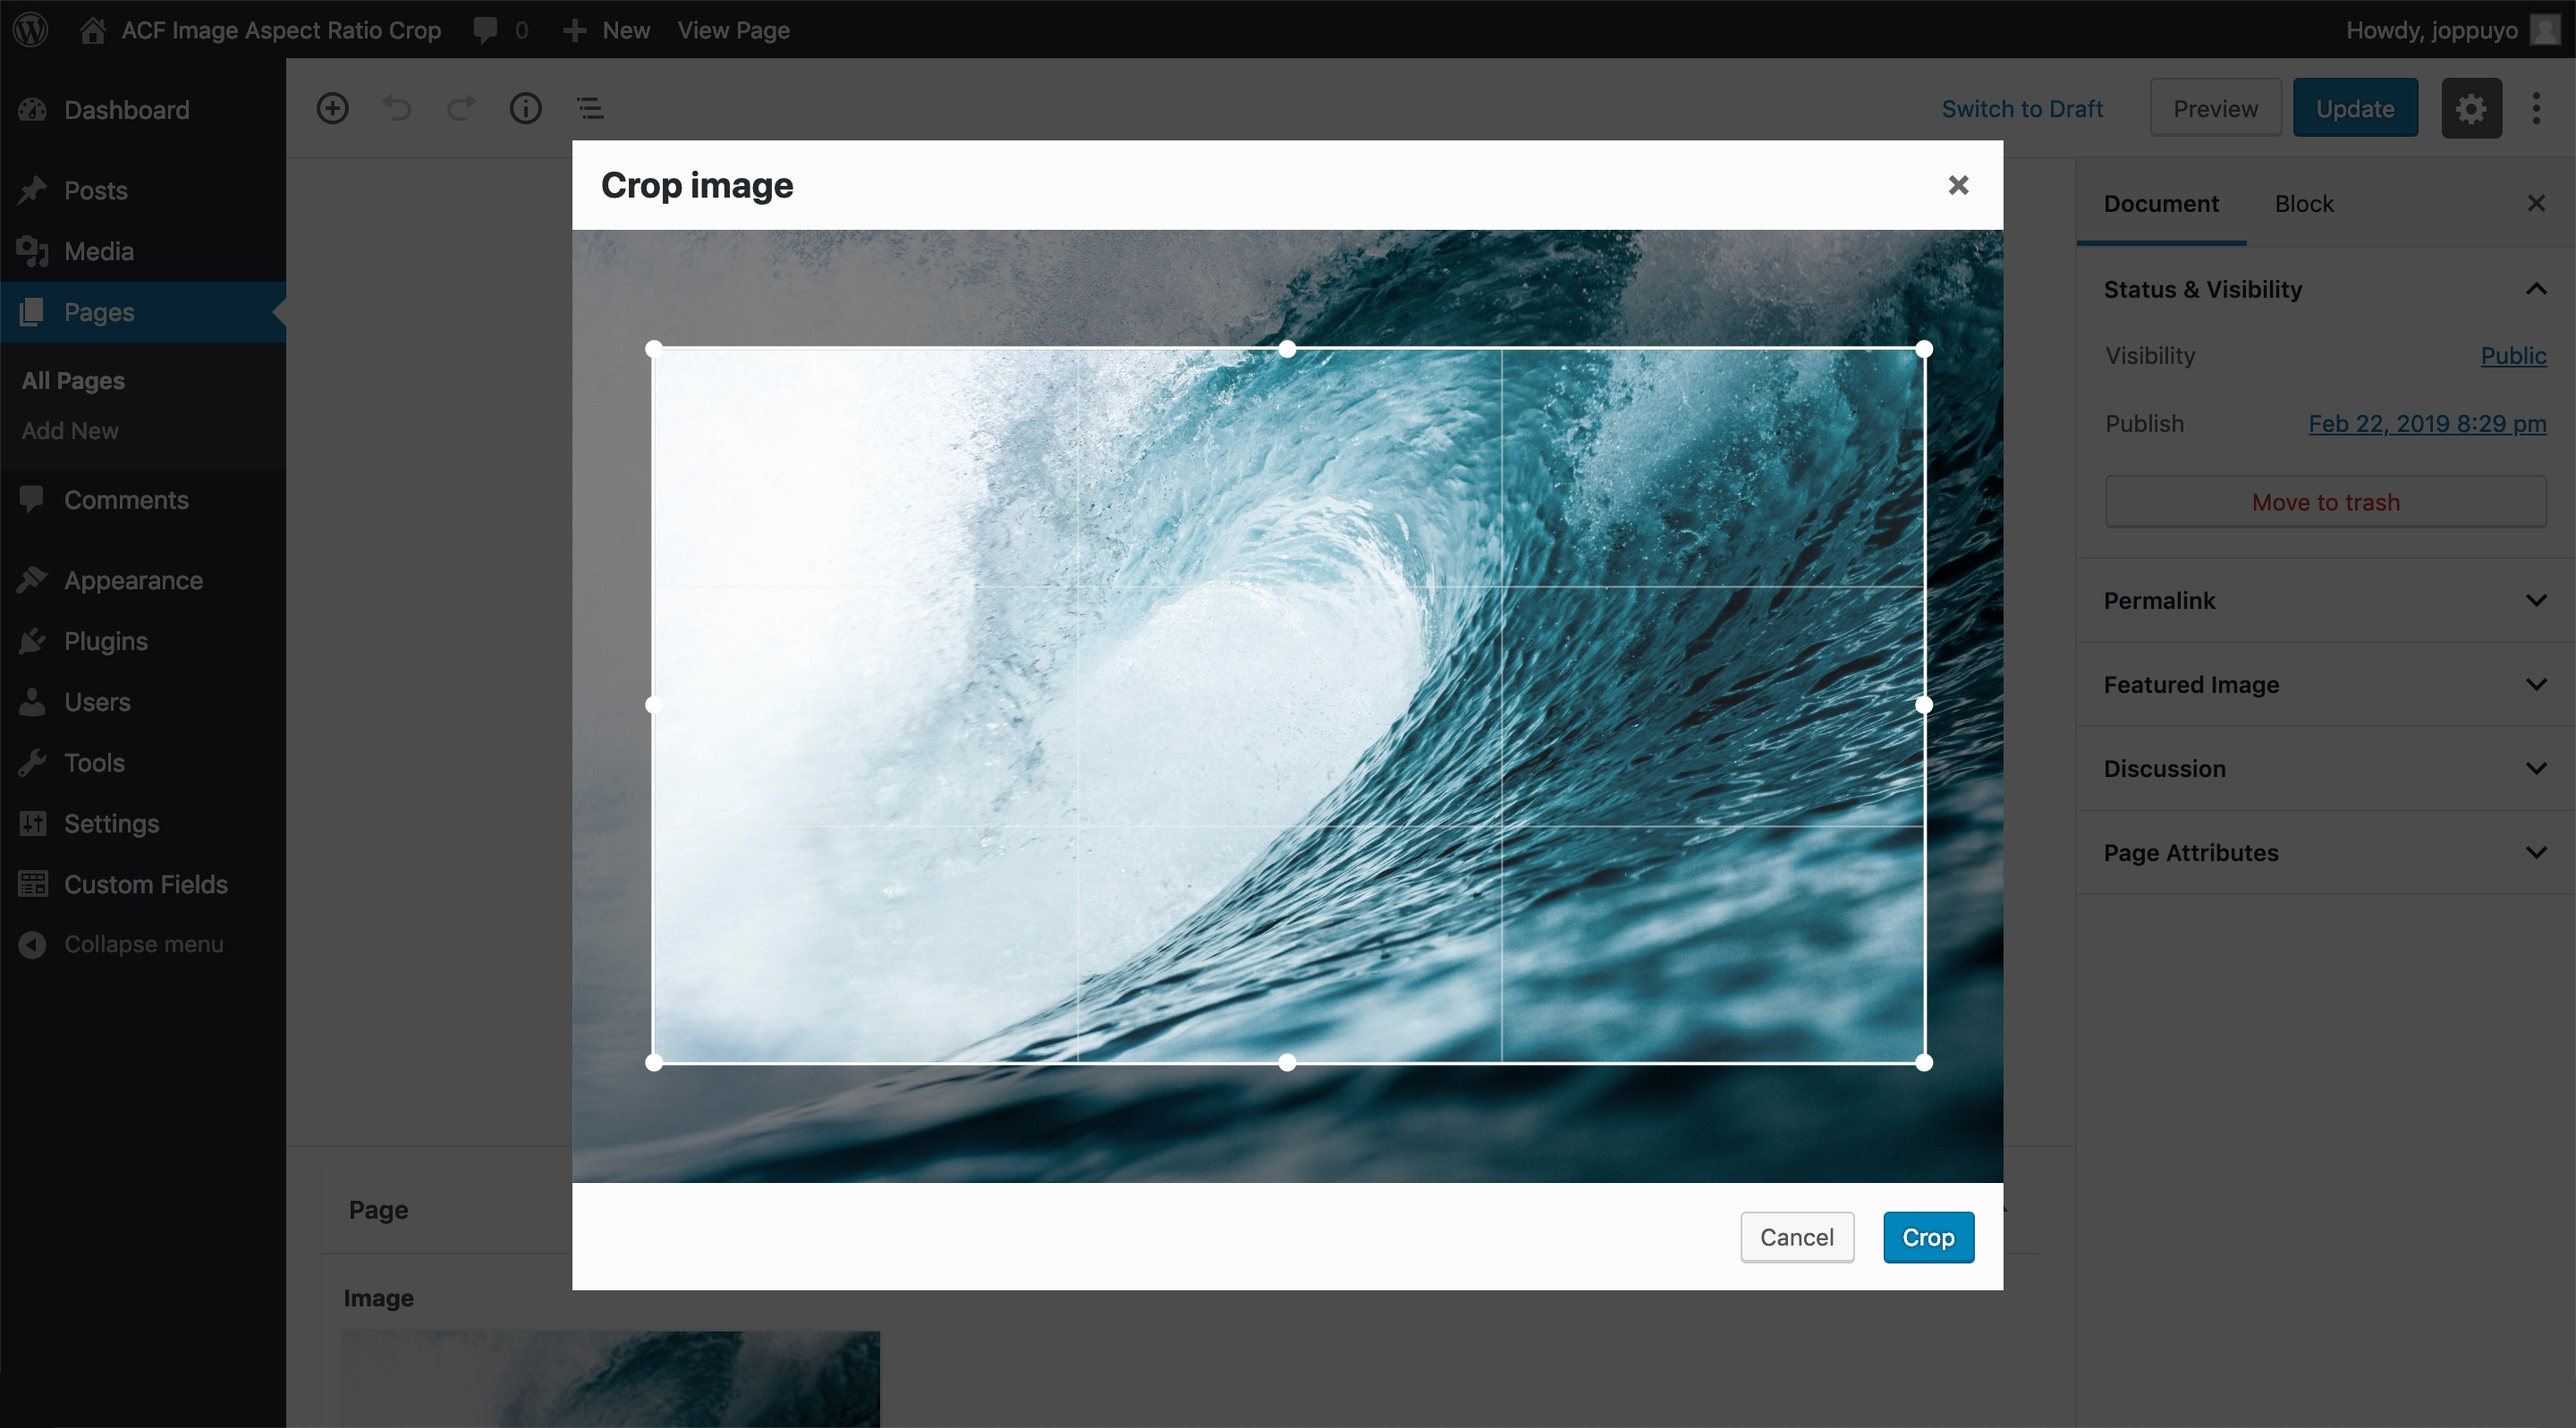
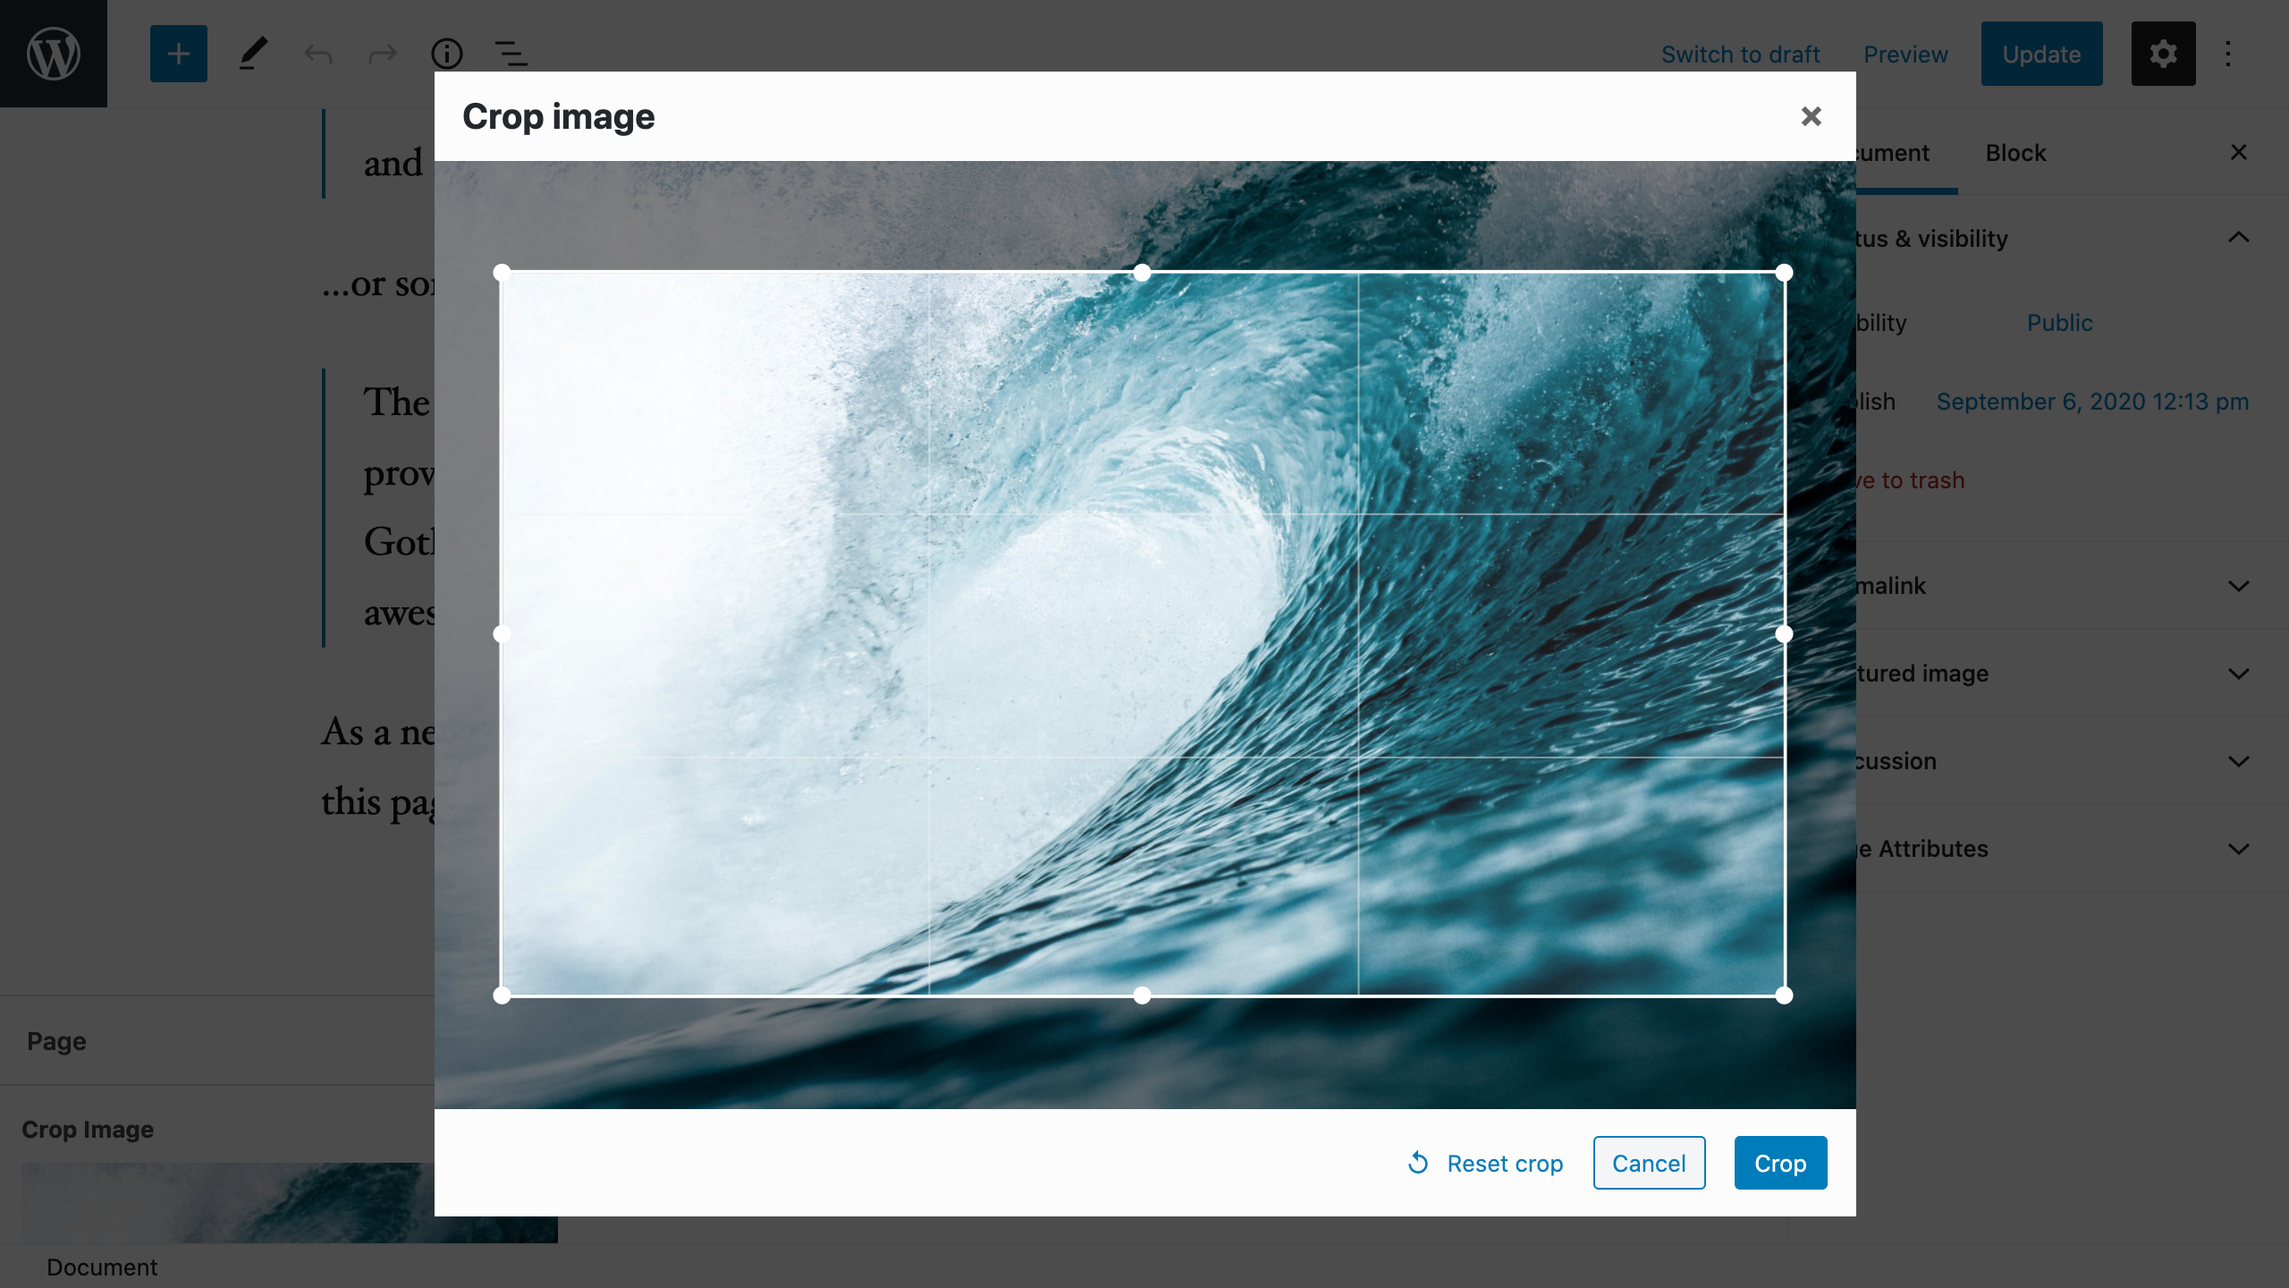
Update screenshots

diff --git a/README.md b/README.md
@@ -40,16 +40,15 @@ Crop can be done freely, there are no aspect ratio limitations.
 
 ### Cropping an image to 16:9 aspect ratio
 
-![Screenshot of cropping an image](assets/images/screenshot-1.jpg?v=1552838494)
+![Screenshot of cropping an image](./.wordpress-org/screenshot-1.jpg)
 
 ### Cropping in progress
 
-![Screenshot of cropping in progress](assets/images/screenshot-2.jpg?v=1552838494)
-
+![Screenshot of cropping in progress](./.wordpress-org/screenshot-2.jpg)
 
 ### Option to re-crop the image after upload
 
-![Screenshot of the image field](assets/images/screenshot-3.png?v=1552838494)
+![Screenshot of the image field](./.wordpress-org/screenshot-3.jpg)
 
 ## Download
 
@@ -57,17 +56,17 @@ You can download the plugin from the [WordPress plugin directory](https://wordpr
 
 ## Requirements
 
-* WordPress 4.9 or later
-* PHP 5.6 or later
-* Advanced Custom Fields 5.8 or later (Pro or Free)
+- WordPress 4.9 or later
+- PHP 5.6 or later
+- Advanced Custom Fields 5.8 or later (Pro or Free)
 
 ## Frequently Asked Questions
 
-###  Can I use this plugin with a front-end acf_form?
+### Can I use this plugin with a front-end acf_form?
 
-Unfortunately this is not supported right now since the plugin requires `upload_files` capability to access the media library. If user does not have this permission, a basic upload dialog will be displayed without a cropper. You can enable cropping by assigning  `upload_files`  capability to the user role but this means that users are able to access the media library like admin users. I will look into implementing front-end form cropping without needing this capability in a future release of this plugin.
+Unfortunately this is not supported right now since the plugin requires `upload_files` capability to access the media library. If user does not have this permission, a basic upload dialog will be displayed without a cropper. You can enable cropping by assigning `upload_files` capability to the user role but this means that users are able to access the media library like admin users. I will look into implementing front-end form cropping without needing this capability in a future release of this plugin.
 
-### Can I access metadata in the original image from a cropped image? 
+### Can I access metadata in the original image from a cropped image?
 
 Yes, the original image data is saved under `original_image` key in the returned ACF array. You can access data such as alt text, description and title this way.
 
